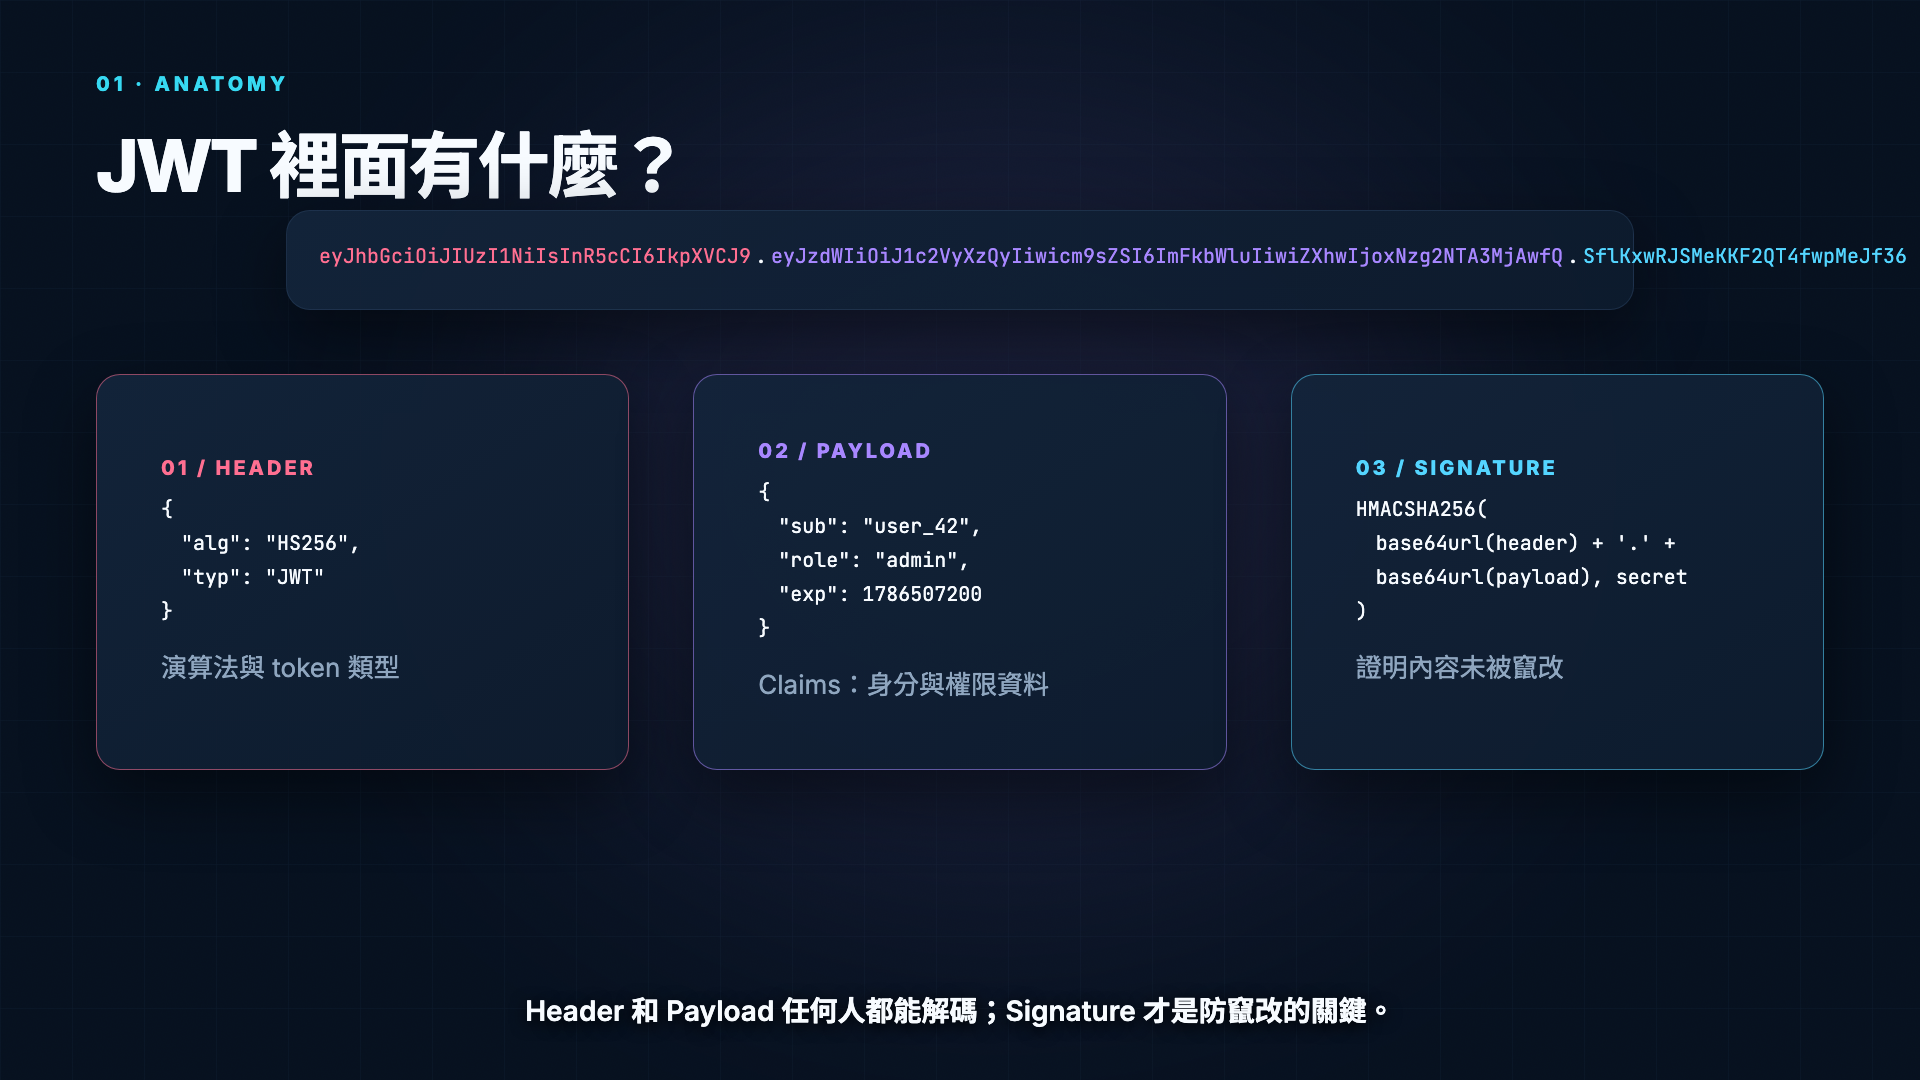
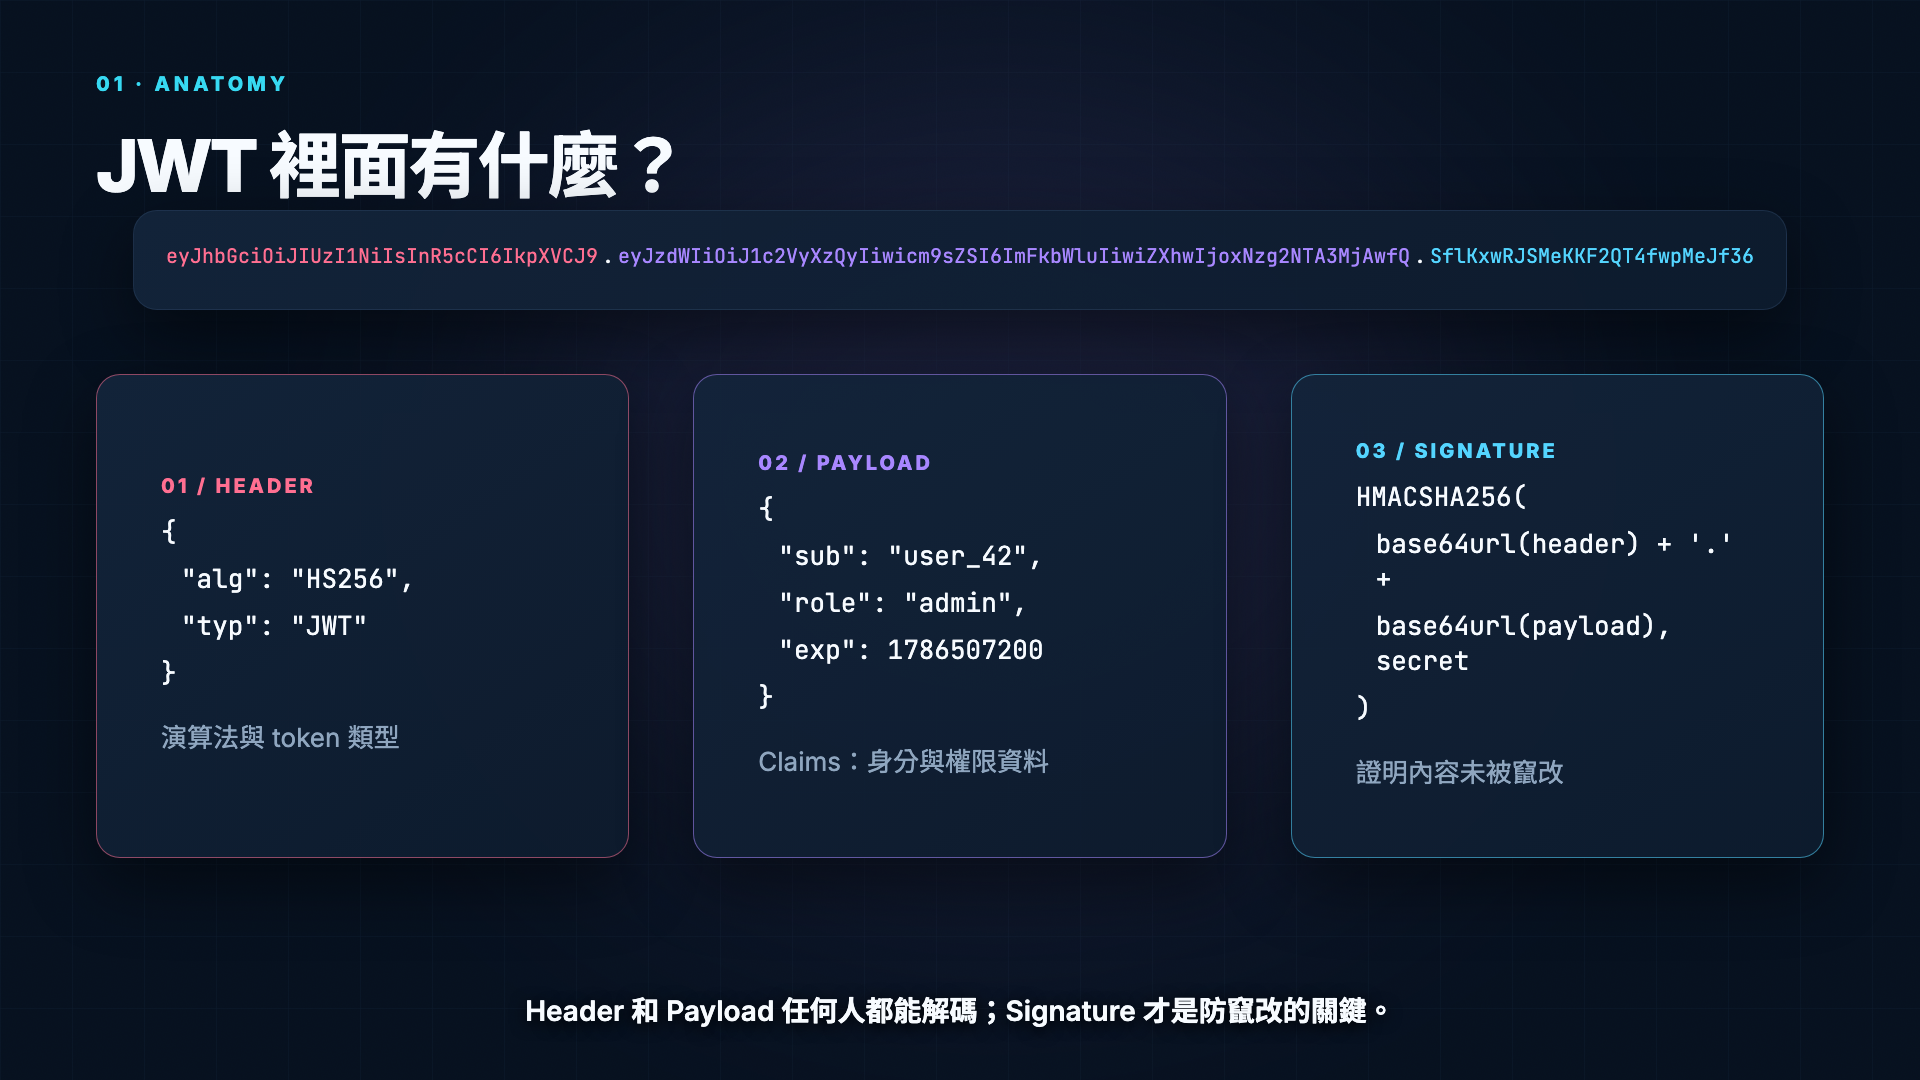
fix(dsl): JWT anatomy scene — token bar overflow and undersized card code
The breakdown scene's raw-JWT strip was wrapped in a width:"wide" (78%)
Stack, too narrow for its unbreakable 132-char mono line — the text
overflowed the panel and ran off the frame's right edge. The Phase 1
original had no width wrapper at all: the CodeBlock shrink-wraps to its
content inside the centered column and fits. Dropped the wrapper.

The three anatomy cards' bare CodeBlocks used size:"sm" (20px) where the
Phase 1 original rendered at fontSize.sm (26px = CodeBlock size "md"),
leaving the cards visibly emptier and the type smaller than v2. Bumped
to "md".

Both defects survived the Stage 4 A/B gate because that gate compared
the DSL port against the Stage 1 TSX rewrite — and both sides shared
them; only an eyeball comparison against the older v2 stills surfaced
the regression. Corrected the docs' "v2 -> v3 is pixel-identical" claim
to state precisely what the gate proved, and recorded the lesson for
Phase 3's critique loop: diff against the previous generation, not just
the current baseline. Re-captured jwt-auth-anatomy-v3.png from the
fixed render.

pnpm verify green.

diff --git a/docs/component-library.md b/docs/component-library.md
@@ -519,10 +519,21 @@ it:
 | v2 — Phase 1 component-library rebuild (hand-written props) | [png](assets/jwt-auth-anatomy-v2.png) | [png](assets/jwt-auth-validation-v2.png) | [png](assets/jwt-auth-summary-v2.png) |
 | v3 — Phase 2 DSL port (same props, now JSON) | [png](assets/jwt-auth-anatomy-v3.png) | [png](assets/jwt-auth-validation-v3.png) | [png](assets/jwt-auth-summary-v3.png) |
 
-v2 → v3 is pixel-identical (`magick compare -metric AE` returns `0` at all
-three frames) — the DSL port and the eventual Stage 7 cutover changed zero
-pixels versus the hand-written-props baseline; only the authoring surface
-changed, from TypeScript to JSON.
+What the pixel-diff gate actually proved: the DSL port is byte-identical
+to the *Stage 1 primitive rewrite* of the TSX scenes (`magick compare
+-metric AE` returns `0` between the two at all three frames), and the
+Stage 7 cutover changed zero pixels versus that. v2 → v3 is **not**
+pixel-identical — the Stage 1 rewrite carries small deliberate deltas
+against v2 (the card captions' divider line has no DSL semantic and was
+dropped; card interiors center rather than pin the caption to the bottom).
+One genuine regression also slipped through that gate — the anatomy
+frame's JWT token bar was wrapped in a `width: "wide"` Stack too narrow
+for its unbreakable 132-char line, overflowing the frame edge — because
+both sides of the A/B shared the bug; it was caught by eye against v2
+post-cutover and fixed in the DSL document (the v3 still above is the
+fixed version). Lesson recorded for Phase 3's critique loop: an A/B
+against the *previous* generation, not just the current baseline, is what
+catches a defect both current candidates share.
 
 ## Open items for Phase 3
 

diff --git a/docs/primitive-inventory.md b/docs/primitive-inventory.md
@@ -115,7 +115,9 @@ direct comparison:
 - [Summary — v2](assets/jwt-auth-summary-v2.png)
 
 The same three frames again after the Phase 2 DSL port (pixel-identical to
-v2 — see `docs/component-library.md`'s quality-ladder table):
+the Stage 1 primitive rewrite it was A/B'd against; carries small
+deliberate deltas vs v2 — see `docs/component-library.md`'s quality-ladder
+table for the details and one regression that gate missed):
 
 - [JWT anatomy — v3](assets/jwt-auth-anatomy-v3.png)
 - [Claims validation — v3](assets/jwt-auth-validation-v3.png)
